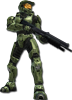
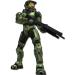
Bug fixes

Changed region(s): [[0.0, 0.0, 1.0, 1.0], [0.5556, 0.3467, 0.5833, 0.3733]]

diff --git a/client/Breakthrough.java b/client/Breakthrough.java
@@ -15,9 +15,7 @@ import java.awt.event.ActionEvent;
 import java.util.Locale;
 import java.util.ResourceBundle;
 import java.io.*;
-import java.awt.*;
 import javax.swing.*;
-import sun.audio.*;
 
 public class Breakthrough extends JFrame implements BreakthroughListener {
 	private static Breakthrough breakthrough;
@@ -36,7 +34,7 @@ public class Breakthrough extends JFrame implements BreakthroughListener {
 	private JLabel welcomeLBL;
 	private JTextField addressTF;
 	private JTextField nameTF;
-	private String[] pieces = {"Default", "Halo"};
+	private String[] pieces = {"Default", "Halo", "Mario"};
 	private String myName;
 	private String opponentName;
 	private String response;
@@ -58,13 +56,14 @@ public class Breakthrough extends JFrame implements BreakthroughListener {
 	/**
 	 * Constructor - creates the connection and game managers, initializes components, shows config dialog, fills in information
 	 */
-	public Breakthrough(String address, String name) {
+	public Breakthrough(String address, String name, int theme) {
 		gameManager = new GameManager();
 		gameManager.addListener(this);
 		initComponents();
 		layoutConfig();
 		addressTF.setText(address);
 		nameTF.setText(name);
+		piecesCB.setSelectedIndex(theme);
 	}
 	
 	/**
@@ -158,6 +157,8 @@ public class Breakthrough extends JFrame implements BreakthroughListener {
 	private void layoutComponents() {
 		JPanel infoPanel = new JPanel(new BorderLayout());
 		JPanel buttonPanel = new JPanel(new GridLayout(8,0));
+		
+		// Player will always be on the left
 		if (team == 2) {
 			buttonPanel.applyComponentOrientation(ComponentOrientation.RIGHT_TO_LEFT);
 		}
@@ -178,7 +179,7 @@ public class Breakthrough extends JFrame implements BreakthroughListener {
 			for (int j = 0; j < button[i].length; j++) {
 				
 				button[i][j] = new JButton();
-				//button[i][j].putClientProperty("JButton.buttonType","toolbar"); // Square buttons on Mac
+				button[i][j].putClientProperty("JButton.buttonType","toolbar"); // Square buttons on Mac
 				buttonPanel.add(button[i][j]);
 				
 				if (j == 0 || j == 1) {
@@ -289,9 +290,7 @@ public class Breakthrough extends JFrame implements BreakthroughListener {
 	 */
 	public void connectionBeginning() {
 		// Disable the components
-		addressTF.setEnabled(false);
-		nameTF.setEnabled(false);
-		connectButton.setEnabled(false);
+		setConfigComponentsEnabled(false);
 		statusChanged(new StatusChangeEvent("statusConnecting"));
 	}
 	
@@ -311,9 +310,7 @@ public class Breakthrough extends JFrame implements BreakthroughListener {
 		configFrame.setVisible(false);
 		
 		// Reset the enabled status of components
-		addressTF.setEnabled(true);
-		nameTF.setEnabled(true);
-		connectButton.setEnabled(true);
+		setConfigComponentsEnabled(true);
 	}
 	
 	/**
@@ -323,15 +320,21 @@ public class Breakthrough extends JFrame implements BreakthroughListener {
 	public void connectionError(final ConnectionErrorEvent e) {
 		// Reset the enabled status of components
 		addressTF.requestFocus();
-		addressTF.setEnabled(true);
-		nameTF.setEnabled(true);
-		connectButton.setEnabled(true);
+		setConfigComponentsEnabled(true);
 		
 		// If the connection was reset
 		if (e.getMessage().equals("Connection reset")) {
 			reset();
 			statusChanged(new StatusChangeEvent("errorConnectionLost",Color.RED));
 		}
+	}
+	
+	private void setConfigComponentsEnabled(boolean enabled) {
+		addressTF.setEnabled(enabled);
+		nameTF.setEnabled(enabled);
+		connectButton.setEnabled(enabled);
+		piecesCB.setEnabled(enabled);
+		soundCK.setEnabled(enabled);
 	}
 	
 	/**
@@ -359,16 +362,28 @@ public class Breakthrough extends JFrame implements BreakthroughListener {
 	public void gameOver(final GameOverEvent e) {
 		String message;
 		String title;
-		if (e.isWinner()) {
+		if (e.isError()) {
+			System.out.println("Error");
+			message = opponentName+" "+rb.getString("errorOpponentDisconnected");
+			title = "Opponent Disconnected";
+			
+			// If sound is enabled
+			if (soundCK.isEnabled()) {
+				//playSound("opponentdisconnect.wav");
+			}
+		}
+		else if (e.isWinner()) {
+			System.out.println("You win");
 			message = "You beat "+opponentName+"!";
 			title = "Winner!";
 			
 			// If sound is enabled
 			if (soundCK.isEnabled()) {
-				//playSound("error.wav");
+				//playSound("success.wav");
 			}
 		}
 		else {
+			System.out.println("You lose");
 			message = "Sorry, "+opponentName+" kicked your ass!";
 			title = "Loser";
 			
@@ -378,7 +393,7 @@ public class Breakthrough extends JFrame implements BreakthroughListener {
 			}
 		}
 		
-		int reset = JOptionPane.showConfirmDialog(null, message+"\nWould you like to play Breakthrough again?", title, JOptionPane.YES_NO_OPTION, JOptionPane.INFORMATION_MESSAGE);
+		int reset = JOptionPane.showConfirmDialog(null, message+"\n"+rb.getString("playAgain"), title, JOptionPane.YES_NO_OPTION, JOptionPane.INFORMATION_MESSAGE);
 		if (reset == 0) {
 			reset();
 		}
@@ -387,20 +402,16 @@ public class Breakthrough extends JFrame implements BreakthroughListener {
 		}
 	}
 	
+	/**
+	 * Play a sound
+	 * @param file The name of the file
+	 */
 	private void playSound(String file) {
 		try {
-			
-			AudioPlayer audioPlayer = AudioPlayer.player;
-			FileInputStream fis = new FileInputStream(new File(file));
-			AudioStream as = new AudioStream(fis); // header plus audio data
-			AudioData ad = as.getData(); // audio data only, no header
-			AudioDataStream audioDataStream = new AudioDataStream(ad);
-			audioPlayer.start();
-			audioDataStream.reset();
+			java.applet.AudioClip clip = java.applet.Applet.newAudioClip(this.getClass().getResource("sounds/"+file));
+			clip.play();
 		}
-		catch (Exception e) {
-			
-		}
+		catch (Exception e) {}
 	}
 	
 	/**
@@ -408,7 +419,7 @@ public class Breakthrough extends JFrame implements BreakthroughListener {
 	 */
 	public void reset() {
 		this.setVisible(false);
-		breakthrough = new Breakthrough(addressTF.getText(), myName);
+		breakthrough = new Breakthrough(addressTF.getText(), myName, piecesCB.getSelectedIndex());
 	}
 	
 	/**

diff --git a/client/GameManager.java b/client/GameManager.java
@@ -104,6 +104,8 @@ public class GameManager {
 					}
 					else if (parsed == -5) {
 						System.out.println("Response: Opponent disconnected");
+						setMyTurn(false);
+						doLoop = false;
 					}
 					
 				}
@@ -111,9 +113,14 @@ public class GameManager {
 			}
 			while (doLoop);
 			
+			System.out.println("Quit loop");
+			
 			// When the game ends
 			if (team + parsed == 0) {
 				fireGameOver(true);
+			}
+			else if (parsed == -5) {
+				fireGameOver("errorOpponentDisconnected");
 			}
 			else {
 				fireGameOver(false);
@@ -294,6 +301,15 @@ public class GameManager {
 	 */
 	private void fireGameOver(boolean won) {
 		GameOverEvent event = new GameOverEvent(won);
+		Iterator iter = new ArrayList<BreakthroughListener>(listeners).iterator();
+        while (iter.hasNext()) {
+            BreakthroughListener listener = (BreakthroughListener) iter.next();
+            listener.gameOver(event);
+        }
+	}
+	
+	private void fireGameOver(String error) {
+		GameOverEvent event = new GameOverEvent(error);
 		Iterator iter = new ArrayList<BreakthroughListener>(listeners).iterator();
         while (iter.hasNext()) {
             BreakthroughListener listener = (BreakthroughListener) iter.next();

diff --git a/client/GameOverEvent.java b/client/GameOverEvent.java
@@ -7,10 +7,28 @@
  */
 
 public class GameOverEvent {
+	boolean isError;
 	boolean winner;
+	String error;
 	
 	public GameOverEvent(boolean winner) {
 		this.winner = winner;
+		this.isError = false;
+		this.error = "";
+	}
+	
+	public GameOverEvent(String error) {
+		this.winner = false;
+		this.isError = true;
+		this.error = error;
+	}
+	
+	public String getError() {
+		return error;
+	}
+	
+	public boolean isError() {
+		return isError;
 	}
 	
 	public boolean isWinner() {
